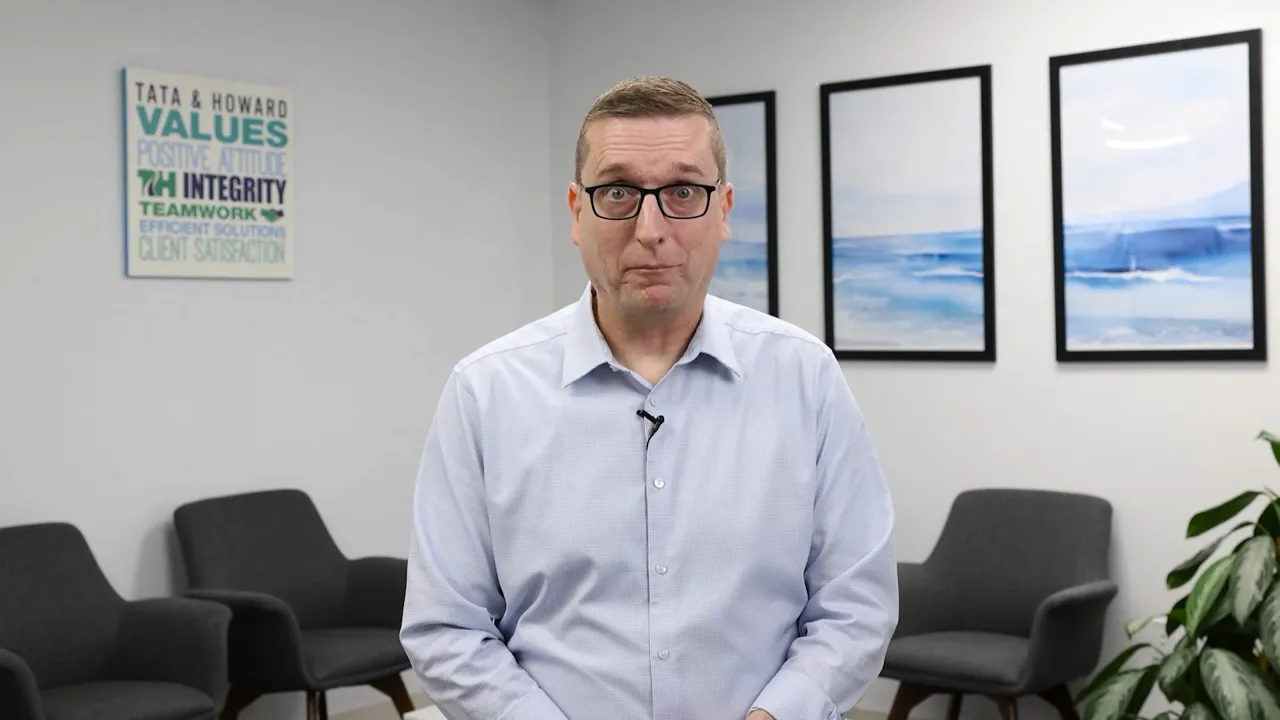
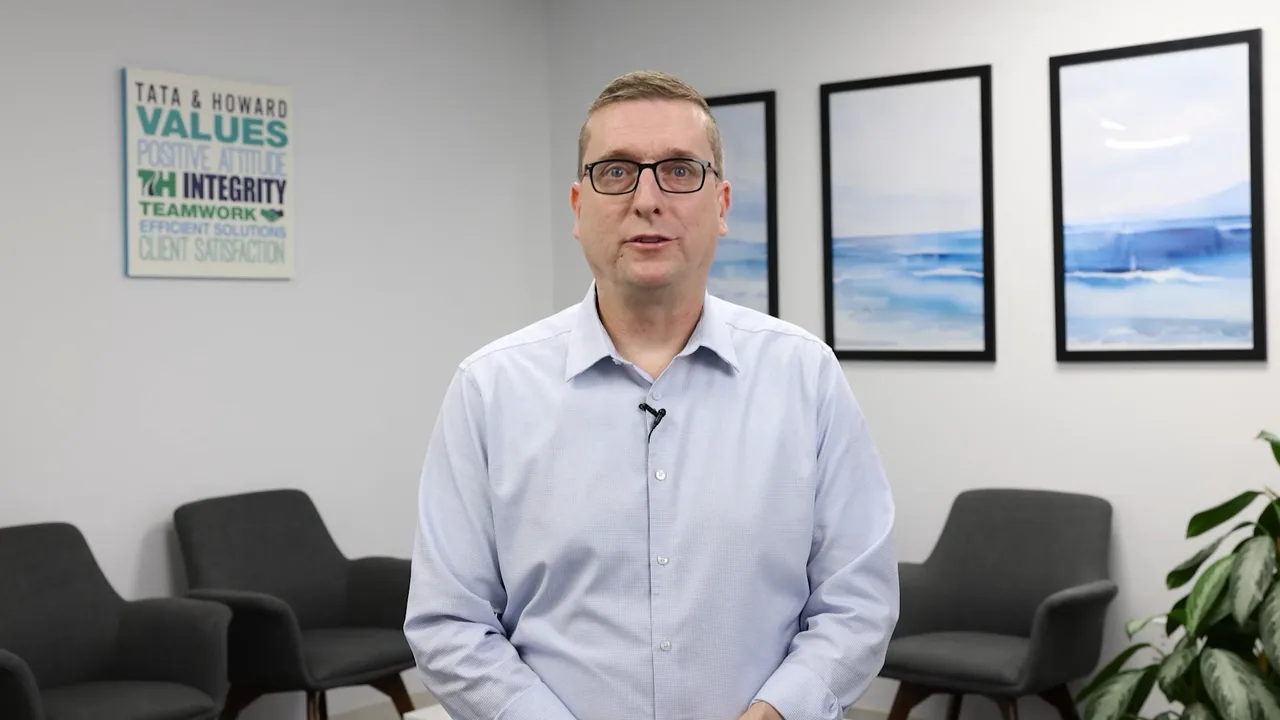
Drop hero tag lines, center About intro label, new reel poster, sequential systems animation
- Remove the dash + label line above page hero headlines (homepage keeps its line, without the dash)
- About: intro section label centered like the rest of the page
- Interview reel poster is now the 0.5s frame; homepage services clip starts there
- Systems card: HoneyBook list runs first, then Mailchimp; lists centered
- Phone/tablet systems thumbnail matches the other thumbnails' 16:10 shape
- style.css v14

diff --git a/index.html b/index.html
@@ -21,7 +21,7 @@
 <link rel="preload" href="/Images/On Set.webp" as="image" fetchpriority="high">
 <link rel="preload" href="https://fonts.googleapis.com/css2?family=Sora:wght@400;500;600;700&family=Spectral:ital,wght@0,400;0,500;1,400;1,500&family=IBM+Plex+Mono:wght@400;500&display=swap" as="style" onload="this.onload=null;this.rel='stylesheet'">
 <noscript><link href="https://fonts.googleapis.com/css2?family=Sora:wght@400;500;600;700&family=Spectral:ital,wght@0,400;0,500;1,400;1,500&family=IBM+Plex+Mono:wght@400;500&display=swap" rel="stylesheet"></noscript>
-<link rel="stylesheet" href="/style.css?v=13">
+<link rel="stylesheet" href="/style.css?v=14">
 <script>
 /* Display settings (footer link): apply saved choices before the page paints. fcsCalm() is true when
    the visitor asked for less motion, either on their device or in Display settings. */
@@ -74,8 +74,10 @@ window.fcsCalm=function(){return document.documentElement.classList.contains('a1
 .idx-card .mono{font-family:'IBM Plex Mono',monospace;font-size:clamp(0.62rem,0.9vw,0.75rem);letter-spacing:0.1em;text-transform:uppercase;color:var(--steel)}
 /* systems: a faint photo under the site's grid-line texture, and two automations that run when you hover */
 .idx-card .idx-card-shade.grid{background:linear-gradient(rgba(183,194,204,0.07) 1px,transparent 1px) 0 0/40px 40px,linear-gradient(90deg,rgba(183,194,204,0.07) 1px,transparent 1px) 0 0/40px 40px,linear-gradient(90deg,rgba(15,20,27,0.88) 0%,rgba(15,20,27,0.6) 100%)}
-.pipes{display:grid;grid-template-columns:1fr 1fr;gap:1.25rem clamp(1.25rem,3vw,2.5rem)}
+.pipes{display:grid;grid-template-columns:auto auto;justify-content:center;align-self:center;gap:1.25rem clamp(2rem,5vw,4.5rem)}
 .pipes .mono{display:block;margin-bottom:0.9rem}
+.pipes>div{transition:opacity .4s}
+.pipes>div.waiting{opacity:0.4}
 .pipe{list-style:none;margin:0;padding:0;display:grid;gap:0.85rem}
 .pipe li,.pipe>span{font-family:'IBM Plex Mono',monospace;font-size:clamp(0.68rem,1vw,0.82rem);letter-spacing:0.08em;text-transform:uppercase;color:var(--steel);display:flex;align-items:center;gap:0.9rem;transition:color .3s}
 .pipe li::before,.pipe>span::before{content:'';width:8px;height:8px;border-radius:50%;border:1px solid var(--steel);flex-shrink:0;transition:background .3s,border-color .3s}
@@ -90,11 +92,13 @@ window.fcsCalm=function(){return document.documentElement.classList.contains('a1
   .idx-name::after{display:none}
   .idx-thumb{display:block;grid-column:1/-1;width:100%;aspect-ratio:16/10;object-fit:cover;border-radius:6px;margin-top:0.75rem}
   .idx-card.idx-thumb{display:flex;position:relative;padding:1.5rem}
-  .idx-card.idx-thumb.sys{aspect-ratio:auto;padding:1.25rem}
-  .idx-thumb .pipes{gap:0.75rem 1rem}
-  .idx-thumb .pipes .mono{margin-bottom:0.6rem}
-  .idx-thumb .pipe{gap:0.55rem}
-  .idx-thumb .pipe>span{font-size:0.6rem;letter-spacing:0.04em;gap:0.55rem;align-items:flex-start;line-height:1.35}
+  /* same 16:10 shape as the other thumbnails; overflow stays visible so the box can grow on very narrow phones instead of cutting the lists off */
+  .idx-card.idx-thumb.sys{aspect-ratio:16/10;padding:1.25rem;overflow:visible}
+  .idx-card.idx-thumb.sys>.idx-card-bg,.idx-card.idx-thumb.sys>.idx-card-shade{border-radius:inherit}
+  .idx-thumb .pipes{gap:0.75rem clamp(1rem,4vw,3rem)}
+  .idx-thumb .pipes .mono{margin-bottom:0.6rem;font-size:clamp(0.58rem,1.5vw,0.75rem)}
+  .idx-thumb .pipe{gap:clamp(0.55rem,1.6vw,0.85rem)}
+  .idx-thumb .pipe>span{font-size:clamp(0.6rem,1.7vw,0.82rem);letter-spacing:0.04em;gap:0.55rem;align-items:flex-start;line-height:1.35}
   .idx-thumb .pipe>span::before{margin-top:0.2em;width:6px;height:6px}
   .idx-row{text-align:left}
 }
@@ -207,14 +211,14 @@ window.fcsCalm=function(){return document.documentElement.classList.contains('a1
         <div class="stage-body">
           <div class="idx">
             <ul class="idx-list">
-              <li><a class="idx-row is-active" href="/services/video/" data-i="0"><span class="idx-name">Video &amp; Photo</span><span class="idx-plat">Production</span><span class="idx-what">Interviews, brand films, product videos and photography. I shoot it and I edit it.</span><span class="idx-go">Video &amp; Photo &rarr;</span><img class="idx-thumb" src="/Images/Interview Reel Poster.webp" alt="" loading="lazy" width="1280" height="720"></a></li>
+              <li><a class="idx-row is-active" href="/services/video/" data-i="0"><span class="idx-name">Video &amp; Photo</span><span class="idx-plat">Production</span><span class="idx-what">Interviews, brand films, product videos and photography. I shoot it and I edit it.</span><span class="idx-go">Video &amp; Photo &rarr;</span><img class="idx-thumb" src="/Images/Interview Reel Poster.webp?v=2" alt="" loading="lazy" width="1280" height="720"></a></li>
               <li><a class="idx-row" href="/services/web/" data-i="1"><span class="idx-name">Web Design</span><span class="idx-plat">Development</span><span class="idx-what">New sites, or fixing the one you have. WordPress, Squarespace, Wix, GoDaddy.</span><span class="idx-go">Web Design &rarr;</span><img class="idx-thumb" src="/Images/Don Ruperto Homepage.webp" alt="" loading="lazy" width="4164" height="2206" style="object-position:top"></a></li>
               <li><a class="idx-row" href="/services/content/" data-i="2"><span class="idx-name">Copy &amp; Content</span><span class="idx-plat">Writing</span><span class="idx-what">Blogs, emails, LinkedIn and website copy, written in your voice.</span><span class="idx-go">Copy &amp; Content &rarr;</span><span class="idx-card idx-thumb" aria-hidden="true"><img class="idx-card-bg" src="/Images/HBZ Blog 3.webp" alt="" loading="lazy" width="1280" height="853"><span class="idx-card-shade"></span><span class="mono">HBZ Media blog</span><p>&ldquo;They need visibility, consistency, and story.&rdquo;</p></span></a></li>
               <li><a class="idx-row" href="/services/design/" data-i="3"><span class="idx-name">Design &amp; Print</span><span class="idx-plat">Print</span><span class="idx-what">Catalogs, brochures, pricing guides and business cards, ready for the printer.</span><span class="idx-go">Design &amp; Print &rarr;</span><img class="idx-thumb" src="/Images/Don Ruperto Catalog Example.webp" alt="" loading="lazy" width="2562" height="1654"></a></li>
               <li><a class="idx-row" href="/services/strategy/" data-i="4"><span class="idx-name">Strategy &amp; Systems</span><span class="idx-plat">Consulting</span><span class="idx-what">HoneyBook, Mailchimp, email and domains, set up so they run without you.</span><span class="idx-go">Strategy &amp; Systems &rarr;</span><span class="idx-card idx-thumb sys" aria-hidden="true"><img class="idx-card-bg" src="/Images/Helping Zach.webp" alt="" loading="lazy" width="1365" height="2048" style="object-position:50% 30%"><span class="idx-card-shade grid"></span><span class="pipes"><span><span class="mono">HoneyBook</span><span class="pipe"><span class="done">Inquiry received</span><span class="done">Proposal sent</span><span class="done">Contract signed</span><span>Invoice paid</span></span></span><span><span class="mono">Mailchimp</span><span class="pipe"><span class="done">New subscriber</span><span class="done">Welcome email sent</span><span class="done">Day 3 follow-up</span><span>Added to newsletter</span></span></span></span></span></a></li>
             </ul>
             <figure class="idx-preview">
-              <video class="on" aria-hidden="true" muted loop playsinline preload="none" poster="/Images/Interview Reel Poster.webp" data-src="https://pub-2f2e0b2928ae4124b5355c23ee1fa57d.r2.dev/FCS%20Interviews%202026.mp4"></video>
+              <video class="on" aria-hidden="true" muted loop playsinline preload="none" poster="/Images/Interview Reel Poster.webp?v=2" data-src="https://pub-2f2e0b2928ae4124b5355c23ee1fa57d.r2.dev/FCS%20Interviews%202026.mp4#t=0.5"></video>
               <img aria-hidden="true" src="/Images/Don Ruperto Homepage.webp" alt="" loading="lazy" width="4164" height="2206" style="object-position:top">
               <div class="idx-card" aria-hidden="true"><img class="idx-card-bg" src="/Images/HBZ Blog 3.webp" alt="" loading="lazy" width="1280" height="853"><span class="idx-card-shade"></span><span class="mono">HBZ Media blog, March 2026</span><p>&ldquo;Local businesses don&rsquo;t need an $8 million commercial. They need visibility, consistency, and story.&rdquo;</p></div>
               <img aria-hidden="true" src="/Images/Don Ruperto Catalog Example.webp" alt="" loading="lazy" width="2562" height="1654">
@@ -244,7 +248,7 @@ window.fcsCalm=function(){return document.documentElement.classList.contains('a1
       </div>
       <div class="video-paths">
     <div class="vpath" id="vp-int" tabindex="0">
-      <div class="vpath-video"><video id="vid-int" src="https://pub-2f2e0b2928ae4124b5355c23ee1fa57d.r2.dev/FCS%20Interviews%202026.mp4" poster="/Images/Interview Reel Poster.webp" muted loop playsinline preload="none"></video></div>
+      <div class="vpath-video"><video id="vid-int" src="https://pub-2f2e0b2928ae4124b5355c23ee1fa57d.r2.dev/FCS%20Interviews%202026.mp4" poster="/Images/Interview Reel Poster.webp?v=2" muted loop playsinline preload="none"></video></div>
       <div class="vpath-tint"></div>
       <div class="vpath-idx">01 &mdash; Interviews</div>
       <div class="vpath-content">
@@ -482,15 +486,24 @@ window.fcsCalm=function(){return document.documentElement.classList.contains('a1
   var reduce=window.fcsCalm();
   var vid=fig.querySelector('video'), btn=fig.querySelector('.idx-toggle');
   var active=0, inView=false, userPaused=reduce;
+  // Systems card: the HoneyBook list ticks off top to bottom, then the Mailchimp list does.
+  // The second column stays dimmed until its turn so the hand-off reads clearly.
   var lists=[].slice.call(fig.querySelectorAll('.pipe'));
-  var steps=[];
-  for(var k=0;k<5;k++){ lists.forEach(function(l){ if(l.children[k]) steps.push(l.children[k]); }); }
+  var cols=lists.map(function(l){return l.parentElement;});
   var timers=[];
   function runPipe(){
     timers.forEach(clearTimeout); timers=[];
     if(reduce) return;
-    steps.forEach(function(li){li.classList.remove('done');});
-    steps.forEach(function(li,i){timers.push(setTimeout(function(){li.classList.add('done');},250+i*260));});
+    lists.forEach(function(l){ [].forEach.call(l.children,function(step){step.classList.remove('done');}); });
+    cols.forEach(function(c,i){ c.classList.toggle('waiting',i>0); });
+    var at=300;
+    lists.forEach(function(l,li){
+      if(li>0){ at+=250; (function(c,t){ timers.push(setTimeout(function(){c.classList.remove('waiting');},t-200)); })(cols[li],at); }
+      [].forEach.call(l.children,function(step){
+        (function(st,t){ timers.push(setTimeout(function(){st.classList.add('done');},t)); })(step,at);
+        at+=280;
+      });
+    });
   }
   function setBtn(){
     btn.hidden = active!==0;

diff --git a/about/index.html b/about/index.html
@@ -20,7 +20,7 @@
 <link rel="preconnect" href="https://www.googletagmanager.com">
 <link rel="preload" href="https://fonts.googleapis.com/css2?family=Sora:wght@400;500;600;700&family=Spectral:ital,wght@0,400;0,500;1,400;1,500&family=IBM+Plex+Mono:wght@400;500&display=swap" as="style" onload="this.onload=null;this.rel='stylesheet'">
 <noscript><link href="https://fonts.googleapis.com/css2?family=Sora:wght@400;500;600;700&family=Spectral:ital,wght@0,400;0,500;1,400;1,500&family=IBM+Plex+Mono:wght@400;500&display=swap" rel="stylesheet"></noscript>
-<link rel="stylesheet" href="/style.css?v=13">
+<link rel="stylesheet" href="/style.css?v=14">
 <script>
 /* Display settings (footer link): apply saved choices before the page paints. fcsCalm() is true when
    the visitor asked for less motion, either on their device or in Display settings. */
@@ -333,7 +333,6 @@ window.fcsCalm=function(){return document.documentElement.classList.contains('a1
     <span class="rail-label" aria-hidden="true">About</span>
   </div>
   <div style="padding-left:calc(56px + var(--g))">
-    <div class="page-tag">The Story</div>
     <h1>Creator. Collaborator.<br><em>Partner.</em></h1>
     <p class="page-hero-sub">15+ years of creative work across music, advocacy, marketing, and independent practice. Based in Central Massachusetts. Fully invested in every project that comes through the door.</p>
   </div>
@@ -342,8 +341,8 @@ window.fcsCalm=function(){return document.documentElement.classList.contains('a1
 <!-- LOGO + INTRO -->
 <span class="ch-rule dark" style="display:block"></span>
 <section class="about-mark-section">
-  <div class="rail" style="position:absolute;left:0;top:0;bottom:0;width:56px;display:flex;align-items:flex-start;justify-content:center;z-index:2;pointer-events:none">
-    <span class="rail-label dark" aria-hidden="true" style="position:sticky;top:calc(var(--nav-h) + 3rem);margin-top:calc(var(--nav-h) + 3rem)">About</span>
+  <div class="rail" style="position:absolute;left:0;top:0;bottom:0;width:56px;display:flex;align-items:center;justify-content:center;z-index:2;pointer-events:none">
+    <span class="rail-label dark" aria-hidden="true">About</span>
   </div>
   <img loading="lazy" class="about-mark" src="/Images/fcs-mark-platinum.webp" alt="Falcone Creative Services" width="512" height="512">
   <h2 class="about-mark-headline">Built from something real.</h2>

diff --git a/style.css b/style.css
@@ -100,7 +100,8 @@ nav.elevated{background:rgba(32,50,76,0.97);border-bottom-color:rgba(183,194,204
 #hero{min-height:100vh;background:linear-gradient(157deg,#0F141B 0%,#20324C 78%);display:grid;grid-template-columns:1fr 1fr;align-items:center;padding:calc(var(--nav-h) + 3rem) var(--g) 6rem;gap:3.5rem;position:relative;overflow:hidden}
 #hero::before{content:'';position:absolute;inset:0;background-image:linear-gradient(rgba(183,194,204,0.025) 1px,transparent 1px),linear-gradient(90deg,rgba(183,194,204,0.025) 1px,transparent 1px);background-size:60px 60px;pointer-events:none}
 .hero-tag{font-family:'Sora',sans-serif;font-size:0.67rem;font-weight:600;letter-spacing:0.18em;text-transform:uppercase;color:var(--platinum);margin-bottom:1.75rem;display:flex;align-items:center;gap:0.85rem;opacity:0;animation:up .8s cubic-bezier(0.22,1,0.36,1) .6s forwards}
-.hero-tag::before{content:'';display:block;width:1.75rem;height:1px;background:var(--platinum);flex-shrink:0}
+/* no leading dash on the homepage hero line */
+.hero-tag::before{display:none}
 #hero h1{font-family:'Sora',sans-serif;font-size:clamp(2.4rem,4.5vw,3.8rem);font-weight:700;line-height:1.06;letter-spacing:-0.01em;color:var(--paper);margin-bottom:1.4rem;opacity:0;animation:up .8s cubic-bezier(0.22,1,0.36,1) .8s forwards}
 #hero h1 em{font-style:normal;color:var(--platinum);font-weight:600}
 .hero-sub{font-family:'Spectral',serif;font-size:1rem;font-weight:400;line-height:1.68;color:var(--paper-86);max-width:400px;margin-bottom:2.25rem;opacity:0;animation:up .8s cubic-bezier(0.22,1,0.36,1) 1s forwards}

diff --git a/services/strategy/index.html b/services/strategy/index.html
@@ -20,7 +20,7 @@
 <link rel="preconnect" href="https://www.googletagmanager.com">
 <link rel="preload" href="https://fonts.googleapis.com/css2?family=Sora:wght@400;500;600;700&family=Spectral:ital,wght@0,400;0,500;1,400;1,500&family=IBM+Plex+Mono:wght@400;500&display=swap" as="style" onload="this.onload=null;this.rel='stylesheet'">
 <noscript><link href="https://fonts.googleapis.com/css2?family=Sora:wght@400;500;600;700&family=Spectral:ital,wght@0,400;0,500;1,400;1,500&family=IBM+Plex+Mono:wght@400;500&display=swap" rel="stylesheet"></noscript>
-<link rel="stylesheet" href="/style.css?v=13">
+<link rel="stylesheet" href="/style.css?v=14">
 <script>
 /* Display settings (footer link): apply saved choices before the page paints. fcsCalm() is true when
    the visitor asked for less motion, either on their device or in Display settings. */
@@ -288,7 +288,6 @@ window.fcsCalm=function(){return document.documentElement.classList.contains('a1
   </div>
   <div style="padding-left:calc(56px + var(--g))">
     <div class="page-breadcrumb"><a href="/services/">Services</a> / Strategy &amp; Systems</div>
-    <div class="page-tag">Consulting</div>
     <h1>The thinking behind<br>the <em>work that works.</em></h1>
     <p class="page-hero-sub">CRM setup, email marketing systems, and operational consulting. Built around your workflow, not a generic playbook. Most clients find this is what ties everything else together.</p>
   </div>

diff --git a/services/web/index.html b/services/web/index.html
@@ -20,7 +20,7 @@
 <link rel="preconnect" href="https://www.googletagmanager.com">
 <link rel="preload" href="https://fonts.googleapis.com/css2?family=Sora:wght@400;500;600;700&family=Spectral:ital,wght@0,400;0,500;1,400;1,500&family=IBM+Plex+Mono:wght@400;500&display=swap" as="style" onload="this.onload=null;this.rel='stylesheet'">
 <noscript><link href="https://fonts.googleapis.com/css2?family=Sora:wght@400;500;600;700&family=Spectral:ital,wght@0,400;0,500;1,400;1,500&family=IBM+Plex+Mono:wght@400;500&display=swap" rel="stylesheet"></noscript>
-<link rel="stylesheet" href="/style.css?v=13">
+<link rel="stylesheet" href="/style.css?v=14">
 <script>
 /* Display settings (footer link): apply saved choices before the page paints. fcsCalm() is true when
    the visitor asked for less motion, either on their device or in Display settings. */
@@ -237,7 +237,6 @@ window.fcsCalm=function(){return document.documentElement.classList.contains('a1
   </div>
   <div style="padding-left:calc(56px + var(--g))">
     <div class="page-breadcrumb"><a href="/services/">Services</a> / Web Design</div>
-    <div class="page-tag">Development</div>
     <h1>Sites that work as hard<br>as the people <em>behind them.</em></h1>
     <p class="page-hero-sub">A fully designed site with domain and hosting, or a fresh coat of paint on what you have. Every project is built to convert, not just to look good.</p>
     <div class="platform-list">

diff --git a/services/design/index.html b/services/design/index.html
@@ -20,7 +20,7 @@
 <link rel="preconnect" href="https://www.googletagmanager.com">
 <link rel="preload" href="https://fonts.googleapis.com/css2?family=Sora:wght@400;500;600;700&family=Spectral:ital,wght@0,400;0,500;1,400;1,500&family=IBM+Plex+Mono:wght@400;500&display=swap" as="style" onload="this.onload=null;this.rel='stylesheet'">
 <noscript><link href="https://fonts.googleapis.com/css2?family=Sora:wght@400;500;600;700&family=Spectral:ital,wght@0,400;0,500;1,400;1,500&family=IBM+Plex+Mono:wght@400;500&display=swap" rel="stylesheet"></noscript>
-<link rel="stylesheet" href="/style.css?v=13">
+<link rel="stylesheet" href="/style.css?v=14">
 <script>
 /* Display settings (footer link): apply saved choices before the page paints. fcsCalm() is true when
    the visitor asked for less motion, either on their device or in Display settings. */
@@ -255,7 +255,6 @@ window.fcsCalm=function(){return document.documentElement.classList.contains('a1
   </div>
   <div style="padding-left:calc(56px + var(--g))">
     <div class="page-breadcrumb"><a href="/services/">Services</a> / Design &amp; Print</div>
-    <div class="page-tag">Design</div>
     <h1>Print that represents<br>your brand <em>at its best.</em></h1>
     <p class="page-hero-sub">Brand collateral, catalogs, brochures, and pricing sheets. Design built to hold up in print and look right in every format: from a business card to a 20-page catalog.</p>
   </div>

diff --git a/services/content/index.html b/services/content/index.html
@@ -20,7 +20,7 @@
 <link rel="preconnect" href="https://www.googletagmanager.com">
 <link rel="preload" href="https://fonts.googleapis.com/css2?family=Sora:wght@400;500;600;700&family=Spectral:ital,wght@0,400;0,500;1,400;1,500&family=IBM+Plex+Mono:wght@400;500&display=swap" as="style" onload="this.onload=null;this.rel='stylesheet'">
 <noscript><link href="https://fonts.googleapis.com/css2?family=Sora:wght@400;500;600;700&family=Spectral:ital,wght@0,400;0,500;1,400;1,500&family=IBM+Plex+Mono:wght@400;500&display=swap" rel="stylesheet"></noscript>
-<link rel="stylesheet" href="/style.css?v=13">
+<link rel="stylesheet" href="/style.css?v=14">
 <script>
 /* Display settings (footer link): apply saved choices before the page paints. fcsCalm() is true when
    the visitor asked for less motion, either on their device or in Display settings. */
@@ -221,7 +221,6 @@ window.fcsCalm=function(){return document.documentElement.classList.contains('a1
   </div>
   <div style="padding-left:calc(56px + var(--g))">
     <div class="page-breadcrumb"><a href="/services/">Services</a> / Copy &amp; Content</div>
-    <div class="page-tag">Content</div>
     <h1>Words that do<br>the work <em>for you.</em></h1>
     <p class="page-hero-sub">Blogs, email campaigns, LinkedIn, and print collateral. Every piece is written to your voice, not a template, and built to pull double duty across every channel.</p>
   </div>

diff --git a/newsletter/index.html b/newsletter/index.html
@@ -20,7 +20,7 @@
 <link rel="preconnect" href="https://www.googletagmanager.com">
 <link rel="preload" href="https://fonts.googleapis.com/css2?family=Sora:wght@400;500;600;700&family=Spectral:ital,wght@0,400;0,500;1,400;1,500&family=IBM+Plex+Mono:wght@400;500&display=swap" as="style" onload="this.onload=null;this.rel='stylesheet'">
 <noscript><link href="https://fonts.googleapis.com/css2?family=Sora:wght@400;500;600;700&family=Spectral:ital,wght@0,400;0,500;1,400;1,500&family=IBM+Plex+Mono:wght@400;500&display=swap" rel="stylesheet"></noscript>
-<link rel="stylesheet" href="/style.css?v=13">
+<link rel="stylesheet" href="/style.css?v=14">
 <script>
 /* Display settings (footer link): apply saved choices before the page paints. fcsCalm() is true when
    the visitor asked for less motion, either on their device or in Display settings. */
@@ -200,7 +200,6 @@ window.fcsCalm=function(){return document.documentElement.classList.contains('a1
 <section class="page-hero" style="position:relative">
   <div class="rail"><span class="rail-label" aria-hidden="true">Newsletter</span></div>
   <div style="padding-left:calc(56px + var(--g))">
-    <div class="page-tag">Newsletter</div>
     <h1>Stay in the loop.</h1>
     <p class="page-hero-sub">Occasional updates from me: what I&rsquo;m working on, projects worth sharing, and a look at the creative work happening behind the scenes.</p>
   </div>

diff --git a/services/video/index.html b/services/video/index.html
@@ -20,7 +20,7 @@
 <link rel="preconnect" href="https://www.googletagmanager.com">
 <link rel="preload" href="https://fonts.googleapis.com/css2?family=Sora:wght@400;500;600;700&family=Spectral:ital,wght@0,400;0,500;1,400;1,500&family=IBM+Plex+Mono:wght@400;500&display=swap" as="style" onload="this.onload=null;this.rel='stylesheet'">
 <noscript><link href="https://fonts.googleapis.com/css2?family=Sora:wght@400;500;600;700&family=Spectral:ital,wght@0,400;0,500;1,400;1,500&family=IBM+Plex+Mono:wght@400;500&display=swap" rel="stylesheet"></noscript>
-<link rel="stylesheet" href="/style.css?v=13">
+<link rel="stylesheet" href="/style.css?v=14">
 <script>
 /* Display settings (footer link): apply saved choices before the page paints. fcsCalm() is true when
    the visitor asked for less motion, either on their device or in Display settings. */
@@ -287,7 +287,6 @@ window.fcsCalm=function(){return document.documentElement.classList.contains('a1
   </div>
   <div style="padding-left:calc(56px + var(--g))">
     <div class="page-breadcrumb"><a href="/services/">Services</a> / Video &amp; Photo</div>
-    <div class="page-tag">Production</div>
     <h1>Stories worth<br><em>watching.</em></h1>
     <p class="page-hero-sub">Corporate interviews, brand films, industrial showcases, and product photography. 15+ years behind the lens: concept through final delivery, no handoffs.</p>
   </div>

diff --git a/contact/index.html b/contact/index.html
@@ -20,7 +20,7 @@
 <link rel="preconnect" href="https://www.googletagmanager.com">
 <link rel="preload" href="https://fonts.googleapis.com/css2?family=Sora:wght@400;500;600;700&family=Spectral:ital,wght@0,400;0,500;1,400;1,500&family=IBM+Plex+Mono:wght@400;500&display=swap" as="style" onload="this.onload=null;this.rel='stylesheet'">
 <noscript><link href="https://fonts.googleapis.com/css2?family=Sora:wght@400;500;600;700&family=Spectral:ital,wght@0,400;0,500;1,400;1,500&family=IBM+Plex+Mono:wght@400;500&display=swap" rel="stylesheet"></noscript>
-<link rel="stylesheet" href="/style.css?v=13">
+<link rel="stylesheet" href="/style.css?v=14">
 <script>
 /* Display settings (footer link): apply saved choices before the page paints. fcsCalm() is true when
    the visitor asked for less motion, either on their device or in Display settings. */
@@ -191,7 +191,6 @@ window.fcsCalm=function(){return document.documentElement.classList.contains('a1
     <span class="rail-label" aria-hidden="true">Contact</span>
   </div>
   <div style="padding-left:calc(56px + var(--g))">
-    <div class="page-tag">Get in Touch</div>
     <h1>Every project starts<br>with a <em>conversation.</em></h1>
     <p class="page-hero-sub">Tell me what you&rsquo;re working on. No intake forms, no automated responses. You&rsquo;ll hear back from me directly, usually within one business day.</p>
   </div>

diff --git a/services/index.html b/services/index.html
@@ -20,7 +20,7 @@
 <link rel="preconnect" href="https://www.googletagmanager.com">
 <link rel="preload" href="https://fonts.googleapis.com/css2?family=Sora:wght@400;500;600;700&family=Spectral:ital,wght@0,400;0,500;1,400;1,500&family=IBM+Plex+Mono:wght@400;500&display=swap" as="style" onload="this.onload=null;this.rel='stylesheet'">
 <noscript><link href="https://fonts.googleapis.com/css2?family=Sora:wght@400;500;600;700&family=Spectral:ital,wght@0,400;0,500;1,400;1,500&family=IBM+Plex+Mono:wght@400;500&display=swap" rel="stylesheet"></noscript>
-<link rel="stylesheet" href="/style.css?v=13">
+<link rel="stylesheet" href="/style.css?v=14">
 <script>
 /* Display settings (footer link): apply saved choices before the page paints. fcsCalm() is true when
    the visitor asked for less motion, either on their device or in Display settings. */
@@ -286,7 +286,6 @@ window.fcsCalm=function(){return document.documentElement.classList.contains('a1
     <span class="rail-label" aria-hidden="true">Services</span>
   </div>
   <div style="padding-left:calc(56px + var(--g))">
-    <div class="page-tag">What I Do</div>
     <h1>Most clients hire me for one thing.<br><em>Then they stay.</em></h1>
     <p class="page-hero-sub">I shoot video, build websites, write copy, design print, and set up the systems a small business runs on.</p>
   </div>

diff --git a/work/index.html b/work/index.html
@@ -20,7 +20,7 @@
 <link rel="preconnect" href="https://www.googletagmanager.com">
 <link rel="preload" href="https://fonts.googleapis.com/css2?family=Sora:wght@400;500;600;700&family=Spectral:ital,wght@0,400;0,500;1,400;1,500&family=IBM+Plex+Mono:wght@400;500&display=swap" as="style" onload="this.onload=null;this.rel='stylesheet'">
 <noscript><link href="https://fonts.googleapis.com/css2?family=Sora:wght@400;500;600;700&family=Spectral:ital,wght@0,400;0,500;1,400;1,500&family=IBM+Plex+Mono:wght@400;500&display=swap" rel="stylesheet"></noscript>
-<link rel="stylesheet" href="/style.css?v=13">
+<link rel="stylesheet" href="/style.css?v=14">
 <script>
 /* Display settings (footer link): apply saved choices before the page paints. fcsCalm() is true when
    the visitor asked for less motion, either on their device or in Display settings. */
@@ -285,7 +285,6 @@ window.fcsCalm=function(){return document.documentElement.classList.contains('a1
     <span class="rail-label" aria-hidden="true">Work</span>
   </div>
   <div style="padding-left:calc(56px + var(--g))">
-    <div class="page-tag">Portfolio</div>
     <h1>Work worth<br><em>talking about.</em></h1>
     <p class="page-hero-sub">A selection of projects across video, web, design, and strategy. Every engagement is different, but the standard stays the same.</p>
   </div>
